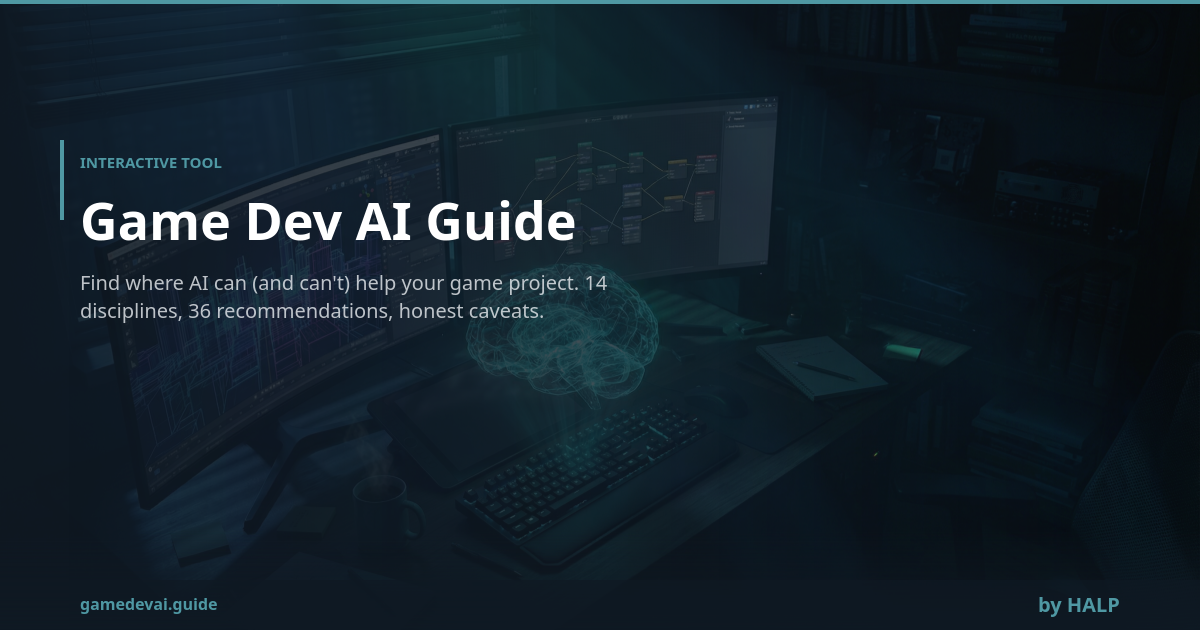
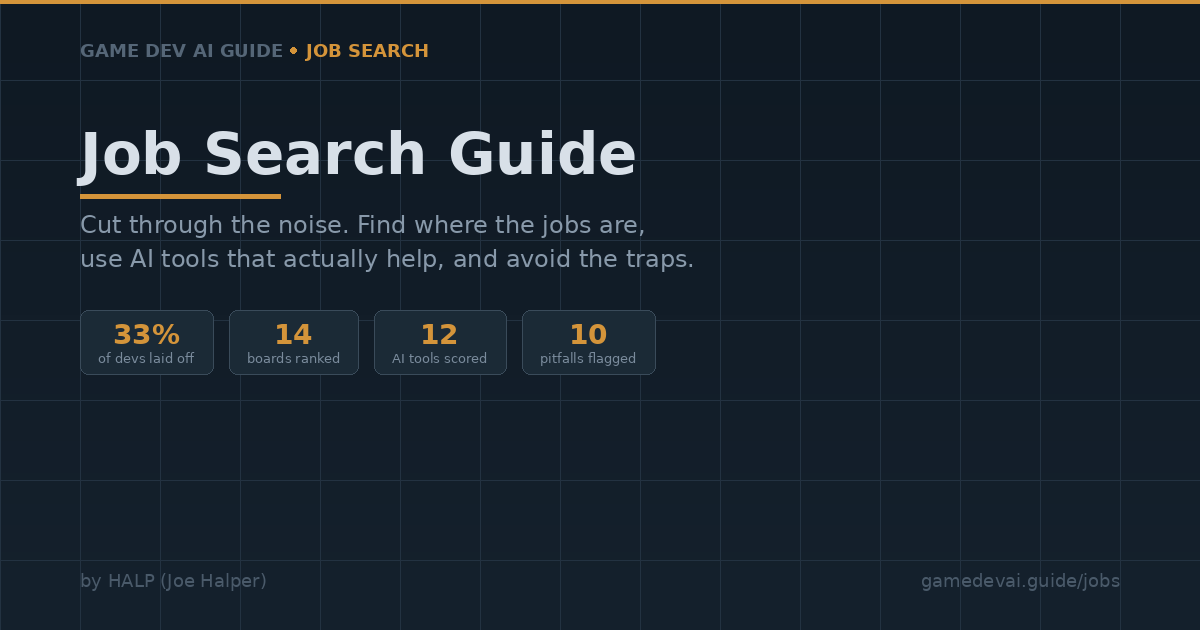
updated og-image for the jobs tool

diff --git a/jobs/index.html b/jobs/index.html
@@ -13,7 +13,7 @@
 <meta property="og:type" content="website">
 <meta property="og:title" content="Game Dev Job Search Guide by HALP">
 <meta property="og:description" content="Cut through the noise. Find where the jobs are, use AI tools that actually help, and avoid the traps.">
-<meta property="og:image" content="og-image.png">
+<meta property="og:image" content="https://gamedevai.guide/jobs/og-image.png">
 
 <!-- Firebase SDK -->
 <script src="https://www.gstatic.com/firebasejs/9.23.0/firebase-app-compat.js"></script>

diff --git a/jobs/jobs-guide.html b/jobs/jobs-guide.html
@@ -13,7 +13,7 @@
 <meta property="og:type" content="website">
 <meta property="og:title" content="Game Dev Job Search Guide by HALP">
 <meta property="og:description" content="Cut through the noise. Find where the jobs are, use AI tools that actually help, and avoid the traps.">
-<meta property="og:image" content="og-image.png">
+<meta property="og:image" content="https://gamedevai.guide/jobs/og-image.png">
 
 <!-- Firebase SDK -->
 <script src="https://www.gstatic.com/firebasejs/9.23.0/firebase-app-compat.js"></script>
